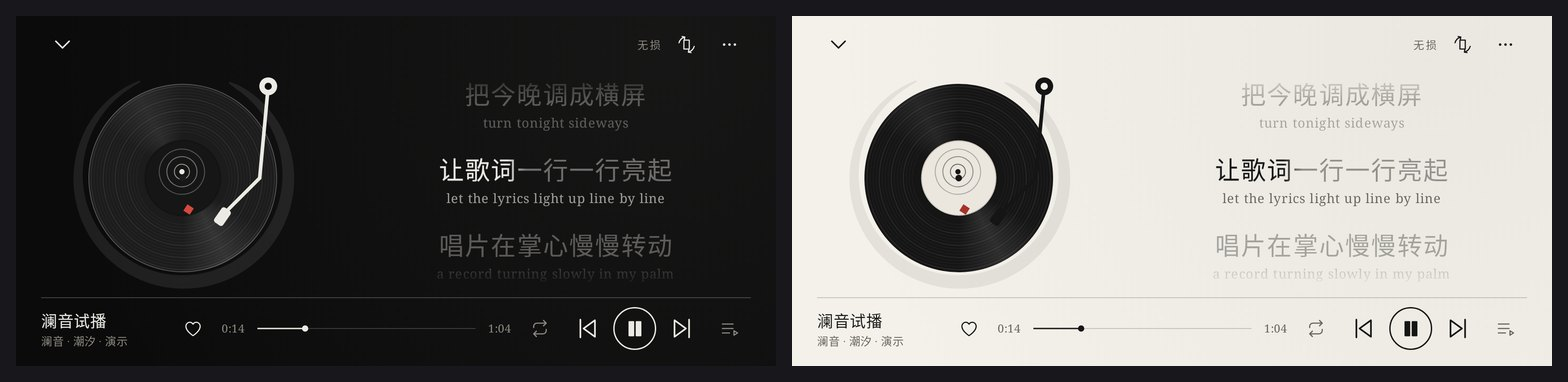
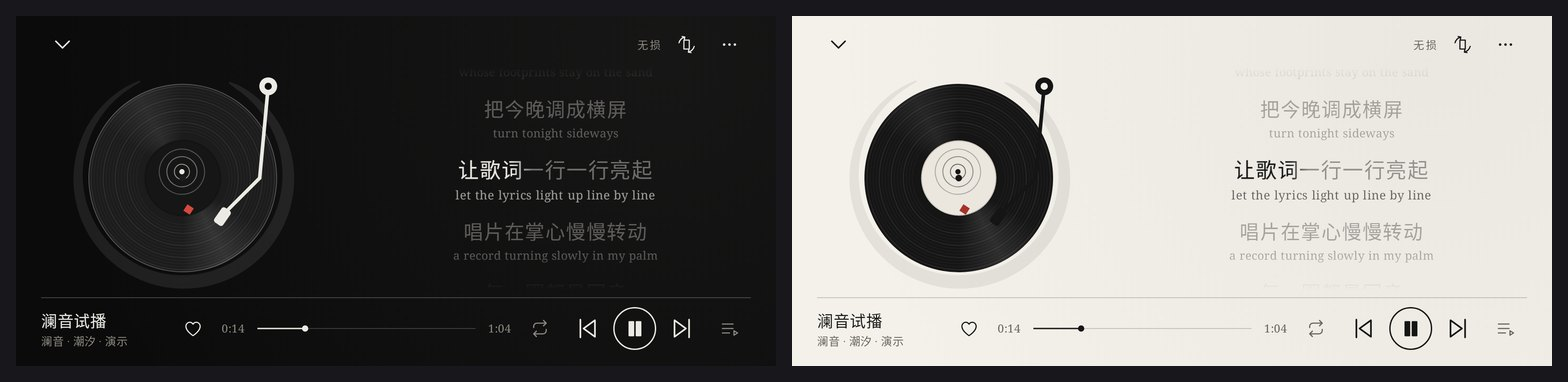
feat(music-player): smaller lyrics with a size setting
Lyrics were 26-28sp, about half again QQ Music's default, so only three
or four lines fit in landscape and every line weighed the same. The base
is now 22sp, the active line is set apart by a per-theme scale instead,
and spacing and translations scale with the text. Settings gains
歌词大小 (小 / 中 / 大) with a live preview.

Claude-Session: https://claude.ai/code/session_01B9QYm7eqM8MabVq3G7cMEc

diff --git a/music-player/app/src/main/java/io/lanyin/player/ui/theme/Style.kt b/music-player/app/src/main/java/io/lanyin/player/ui/theme/Style.kt
@@ -148,7 +148,7 @@ fun lanyinStyle(theme: AppTheme, dark: Boolean): LanyinStyle {
             cardShape = RoundedCornerShape(24.dp), chipShape = CircleShape, artShape = RoundedCornerShape(20.dp),
             edge = EdgeKind.Glass, backdrop = BackdropKind.Tide, seek = SeekKind.Wave,
             button = ButtonKind.Glow, nav = NavKind.Pill,
-            lyric = LyricStyle(centered = false, activeScale = 1.04f, inactiveAlpha = 0.42f, blurStep = 0.7.dp, staggerMs = 38, glow = false, serif = false),
+            lyric = LyricStyle(centered = false, activeScale = 1.1f, inactiveAlpha = 0.42f, blurStep = 0.7.dp, staggerMs = 38, glow = false, serif = false),
             motion = Motion(0.82f, 420f), bouncy = Motion(0.58f, 380f), pressScale = 0.94f,
             iconStroke = 1.8f,
         )
@@ -160,7 +160,7 @@ fun lanyinStyle(theme: AppTheme, dark: Boolean): LanyinStyle {
             cardShape = RectangleShape, chipShape = RectangleShape, artShape = RectangleShape,
             edge = EdgeKind.Hairline, backdrop = BackdropKind.Ink, seek = SeekKind.Hairline,
             button = ButtonKind.Outline, nav = NavKind.Text,
-            lyric = LyricStyle(centered = true, activeScale = 1f, inactiveAlpha = 0.34f, blurStep = 0.dp, staggerMs = 0, glow = false, serif = true),
+            lyric = LyricStyle(centered = true, activeScale = 1.06f, inactiveAlpha = 0.34f, blurStep = 0.dp, staggerMs = 0, glow = false, serif = true),
             motion = Motion(1f, 700f), bouncy = Motion(0.9f, 600f), pressScale = 0.98f,
             iconStroke = 1.3f, dock = DockKind.Docked, margin = 24.dp, quietSections = true,
         )
@@ -172,7 +172,7 @@ fun lanyinStyle(theme: AppTheme, dark: Boolean): LanyinStyle {
             cardShape = RoundedCornerShape(28.dp), chipShape = CircleShape, artShape = RoundedCornerShape(32.dp),
             edge = EdgeKind.Soft, backdrop = BackdropKind.Sakura, seek = SeekKind.Pill,
             button = ButtonKind.Blob, nav = NavKind.Pill,
-            lyric = LyricStyle(centered = true, activeScale = 1.08f, inactiveAlpha = 0.5f, blurStep = 0.5.dp, staggerMs = 55, glow = false, serif = false),
+            lyric = LyricStyle(centered = true, activeScale = 1.12f, inactiveAlpha = 0.5f, blurStep = 0.5.dp, staggerMs = 55, glow = false, serif = false),
             motion = Motion(0.7f, 450f), bouncy = Motion(0.42f, 420f), pressScale = 0.9f,
             iconStroke = 2f,
         )
@@ -184,7 +184,7 @@ fun lanyinStyle(theme: AppTheme, dark: Boolean): LanyinStyle {
             cardShape = CutCornerShape(14.dp), chipShape = CutCornerShape(10.dp), artShape = CutCornerShape(18.dp),
             edge = EdgeKind.Glow, backdrop = BackdropKind.Neon, seek = SeekKind.Segments,
             button = ButtonKind.NeonRing, nav = NavKind.Pill,
-            lyric = LyricStyle(centered = false, activeScale = 1f, inactiveAlpha = 0.35f, blurStep = 0.6.dp, staggerMs = 18, glow = true, serif = false),
+            lyric = LyricStyle(centered = false, activeScale = 1.08f, inactiveAlpha = 0.35f, blurStep = 0.6.dp, staggerMs = 18, glow = true, serif = false),
             motion = Motion(0.85f, 1100f), bouncy = Motion(0.55f, 900f), pressScale = 0.95f,
             iconStroke = 1.6f,
         )
@@ -196,7 +196,7 @@ fun lanyinStyle(theme: AppTheme, dark: Boolean): LanyinStyle {
             cardShape = RoundedCornerShape(18.dp), chipShape = CircleShape, artShape = RoundedCornerShape(14.dp),
             edge = EdgeKind.Retro, backdrop = BackdropKind.Dusk, seek = SeekKind.Tape,
             button = ButtonKind.Retro, nav = NavKind.Pill,
-            lyric = LyricStyle(centered = false, activeScale = 1.03f, inactiveAlpha = 0.5f, blurStep = 0.dp, staggerMs = 45, glow = false, serif = true),
+            lyric = LyricStyle(centered = false, activeScale = 1.08f, inactiveAlpha = 0.5f, blurStep = 0.dp, staggerMs = 45, glow = false, serif = true),
             motion = Motion(0.85f, 320f), bouncy = Motion(0.6f, 300f), pressScale = 1f,
             iconStroke = 2.2f,
         )

diff --git a/music-player/app/src/main/java/io/lanyin/player/ui/player/PlayerScreen.kt b/music-player/app/src/main/java/io/lanyin/player/ui/player/PlayerScreen.kt
@@ -93,6 +93,7 @@ fun PlayerScreen(
     keepScreenOnInLandscape: Boolean,
     onCollapse: () -> Unit,
     modifier: Modifier = Modifier,
+    lyricScale: Float = 1f,
 ) {
     val landscape = LocalConfiguration.current.orientation == Configuration.ORIENTATION_LANDSCAPE
     val style = Lanyin.style
@@ -176,9 +177,9 @@ fun PlayerScreen(
         ) {
             Backdrop(Modifier.matchParentSize(), live = true, playing = state.isPlaying)
             if (landscape) {
-                LandscapePlayer(state, skin, spin, chromeVisible, dismissDrag, onCollapse, onRotate)
+                LandscapePlayer(state, skin, spin, chromeVisible, dismissDrag, onCollapse, onRotate, lyricScale)
             } else {
-                PortraitPlayer(state, skin, spin, dismissDrag, onCollapse, onRotate)
+                PortraitPlayer(state, skin, spin, dismissDrag, onCollapse, onRotate, lyricScale)
             }
         }
     }
@@ -192,6 +193,7 @@ private fun PortraitPlayer(
     dismissDrag: Modifier,
     onCollapse: () -> Unit,
     onRotate: () -> Unit,
+    lyricScale: Float,
 ) {
     var showLyrics by rememberSaveable { mutableStateOf(false) }
     val lyricsOnly = skin == PlayerSkin.LYRICS || showLyrics
@@ -216,7 +218,7 @@ private fun PortraitPlayer(
             if (lyrics) {
                 LyricsView(
                     lines = state.lyrics, currentIndex = state.currentLyricIndex, progress = state::lineProgress,
-                    onSeek = state::seekTo, textStyle = MaterialTheme.typography.headlineSmall.copy(fontSize = 26.sp, lineHeight = 34.sp),
+                    onSeek = state::seekTo, textStyle = lyricTextStyle(22, lyricScale),
                     modifier = Modifier.fillMaxSize(), anchorFraction = 0.4f,
                 )
             } else {
@@ -253,9 +255,10 @@ private fun LandscapePlayer(
     dismissDrag: Modifier,
     onCollapse: () -> Unit,
     onRotate: () -> Unit,
+    lyricScale: Float,
 ) {
     val style = Lanyin.style
-    val lyricStyle = MaterialTheme.typography.headlineSmall.copy(fontSize = 28.sp, lineHeight = 36.sp)
+    val lyricStyle = lyricTextStyle(22, lyricScale)
     Column(
         Modifier
             .fillMaxSize()
@@ -269,7 +272,7 @@ private fun LandscapePlayer(
             if (skin == PlayerSkin.LYRICS) {
                 LyricsView(
                     state.lyrics, state.currentLyricIndex, state::lineProgress, state::seekTo,
-                    textStyle = lyricStyle.copy(fontSize = 32.sp, lineHeight = 42.sp),
+                    textStyle = lyricTextStyle(26, lyricScale),
                     modifier = Modifier.fillMaxSize(), centered = true, anchorFraction = 0.46f,
                 )
             } else {
@@ -328,6 +331,13 @@ private fun LandscapeControlBar(state: DemoPlayerState, modifier: Modifier = Mod
         }
     }
 }
+
+/** Lyric face at [baseSp] (scaled by the user's 歌词大小), line height 1.36×. */
+@Composable
+private fun lyricTextStyle(baseSp: Int, scale: Float) = MaterialTheme.typography.headlineSmall.copy(
+    fontSize = (baseSp * scale).sp,
+    lineHeight = (baseSp * scale * 1.36f).sp,
+)
 
 @Composable
 private fun PlayerTopBar(

diff --git a/music-player/app/src/main/java/io/lanyin/player/ui/settings/SettingsScreen.kt b/music-player/app/src/main/java/io/lanyin/player/ui/settings/SettingsScreen.kt
@@ -53,6 +53,7 @@ import io.lanyin.player.ui.theme.AppTheme
 import io.lanyin.player.ui.theme.EdgeKind
 import io.lanyin.player.ui.theme.Lanyin
 import io.lanyin.player.ui.theme.LanyinTheme
+import io.lanyin.player.ui.theme.LyricSize
 import io.lanyin.player.ui.theme.PlayerSkin
 import io.lanyin.player.ui.theme.ThemeMode
 import kotlinx.coroutines.launch
@@ -109,7 +110,30 @@ fun SettingsScreen(settings: UiSettings, repository: SettingsRepository, onBack:
 
             item { SectionTitle("播放", Modifier.padding(start = m, end = m, top = 36.dp)) }
             item {
+                Column(Modifier.padding(start = m, end = m, top = 14.dp)) {
+                    Row(verticalAlignment = Alignment.CenterVertically) {
+                        Text("歌词大小", style = style.type.body, modifier = Modifier.weight(1f))
+                        ChoiceRow(LyricSize.entries.map { it.label }, settings.lyricSize.label, { label ->
+                            val size = LyricSize.entries.first { it.label == label }
+                            scope.launch { repository.setLyricSize(size) }
+                        })
+                    }
+                    // What the player will show at this size.
+                    val preview = androidx.compose.material3.MaterialTheme.typography.headlineSmall.copy(
+                        fontSize = (22 * settings.lyricSize.scale).sp,
+                        lineHeight = (22 * settings.lyricSize.scale * 1.36f).sp,
+                        fontFamily = if (style.lyric.serif) style.display else null,
+                        fontWeight = if (style.lyric.serif) FontWeight.Medium else FontWeight.Bold,
+                    )
+                    Column(Modifier.fillMaxWidth().padding(vertical = 16.dp)) {
+                        Text("让歌词一行一行亮起", style = preview, color = if (style.edge == EdgeKind.Hairline) c.content else c.accent)
+                        Text("唱片在掌心慢慢转动", style = preview, color = c.content.copy(alpha = style.lyric.inactiveAlpha))
+                    }
+                }
+            }
+            item {
                 Column(Modifier.padding(start = m, end = m, top = 6.dp).then(if (style.edge == EdgeKind.Hairline) Modifier else Modifier.padding(top = 8.dp).themedSurface(tone = SurfaceTone.Flat).padding(horizontal = 16.dp))) {
+                    if (style.edge == EdgeKind.Hairline) Hairline()
                     ToggleRow("打开播放页时自动横屏", "也可以随时点播放页右上角的旋转按钮", settings.autoLandscape) {
                         scope.launch { repository.setAutoLandscape(it) }
                     }

diff --git a/music-player/app/src/main/java/io/lanyin/player/data/settings/SettingsRepository.kt b/music-player/app/src/main/java/io/lanyin/player/data/settings/SettingsRepository.kt
@@ -9,6 +9,7 @@ import androidx.datastore.preferences.core.emptyPreferences
 import androidx.datastore.preferences.core.stringPreferencesKey
 import androidx.datastore.preferences.preferencesDataStore
 import io.lanyin.player.ui.theme.AppTheme
+import io.lanyin.player.ui.theme.LyricSize
 import io.lanyin.player.ui.theme.PlayerSkin
 import io.lanyin.player.ui.theme.ThemeMode
 import java.io.IOException
@@ -25,6 +26,7 @@ data class UiSettings(
     /** Rotate to landscape whenever the player opens. */
     val autoLandscape: Boolean = false,
     val keepScreenOnInLandscape: Boolean = true,
+    val lyricSize: LyricSize = LyricSize.Default,
 )
 
 class SettingsRepository(private val dataStore: DataStore<Preferences>) {
@@ -39,6 +41,7 @@ class SettingsRepository(private val dataStore: DataStore<Preferences>) {
                 themeMode = ThemeMode.fromId(prefs[THEME_MODE]),
                 autoLandscape = prefs[AUTO_LANDSCAPE] ?: false,
                 keepScreenOnInLandscape = prefs[KEEP_SCREEN_ON] ?: true,
+                lyricSize = LyricSize.fromId(prefs[LYRIC_SIZE]),
             )
         }
 
@@ -52,11 +55,14 @@ class SettingsRepository(private val dataStore: DataStore<Preferences>) {
 
     suspend fun setKeepScreenOnInLandscape(enabled: Boolean) = dataStore.edit { it[KEEP_SCREEN_ON] = enabled }
 
+    suspend fun setLyricSize(size: LyricSize) = dataStore.edit { it[LYRIC_SIZE] = size.id }
+
     private companion object {
         val THEME = stringPreferencesKey("app_skin")
         val PLAYER_SKIN = stringPreferencesKey("player_skin")
         val THEME_MODE = stringPreferencesKey("theme_mode")
         val AUTO_LANDSCAPE = booleanPreferencesKey("auto_landscape")
         val KEEP_SCREEN_ON = booleanPreferencesKey("keep_screen_on_landscape")
+        val LYRIC_SIZE = stringPreferencesKey("lyric_size")
     }
 }

diff --git a/music-player/app/src/test/java/io/lanyin/player/screenshots/ScreenshotTest.kt b/music-player/app/src/test/java/io/lanyin/player/screenshots/ScreenshotTest.kt
@@ -92,6 +92,13 @@ class ScreenshotTest {
             io.lanyin.player.ui.settings.SettingsScreen(UiSettings(theme = AppTheme.INK, themeMode = ThemeMode.LIGHT), repo, onBack = {})
         }
     }
+    @Config(qualifiers = "w392dp-h1500dp-port-xhdpi")
+    @Test fun ink_settings_full() {
+        val repo = repo()
+        capture("ink_settings_full", AppTheme.INK, ThemeMode.LIGHT) {
+            io.lanyin.player.ui.settings.SettingsScreen(UiSettings(theme = AppTheme.INK, themeMode = ThemeMode.LIGHT), repo, onBack = {})
+        }
+    }
     @Test fun ink_port_vinyl_light() = capture("ink_port_vinyl_light", AppTheme.INK, ThemeMode.LIGHT) { Player(PlayerSkin.VINYL) }
     @Test fun ink_port_cover_dark() = capture("ink_port_cover_dark", AppTheme.INK, ThemeMode.DARK) { Player(PlayerSkin.COVER) }
 
@@ -132,6 +139,11 @@ class ScreenshotTest {
     @Test fun ink_land_vinyl_idle() {
         // After five idle seconds the chrome folds away and the stage takes the room.
         capture("ink_land_vinyl_idle", AppTheme.INK, ThemeMode.LIGHT, settle = 6_500) { Player(PlayerSkin.VINYL) }
+    }
+
+    @Config(qualifiers = LANDSCAPE)
+    @Test fun ink_land_vinyl_large_lyrics() = capture("ink_land_vinyl_large_lyrics", AppTheme.INK, ThemeMode.LIGHT) {
+        PlayerScreen(playingAt(14_000), PlayerSkin.VINYL, rememberSpinState(true), keepScreenOnInLandscape = true, onCollapse = {}, lyricScale = io.lanyin.player.ui.theme.LyricSize.LARGE.scale)
     }
 
     // Home, inside the real shell, for every theme.

diff --git a/music-player/app/src/main/java/io/lanyin/player/ui/player/Lyrics.kt b/music-player/app/src/main/java/io/lanyin/player/ui/player/Lyrics.kt
@@ -139,7 +139,7 @@ fun LyricsView(
             ),
     ) {
         val anchorPx = constraints.maxHeight * anchorFraction
-        val gapPx = with(androidx.compose.ui.platform.LocalDensity.current) { 18.dp.roundToPx() }
+        val gapPx = with(androidx.compose.ui.platform.LocalDensity.current) { (textStyle.fontSize.toPx() * 0.6f).toInt() }
         Layout(
             content = {
                 lines.forEachIndexed { i, line ->
@@ -232,7 +232,7 @@ private fun LyricRow(
         if (line.translation != null) {
             Text(
                 line.translation,
-                style = textStyle.copy(fontSize = textStyle.fontSize * 0.52f, fontWeight = FontWeight.Normal, textAlign = align),
+                style = textStyle.copy(fontSize = textStyle.fontSize * 0.58f, lineHeight = textStyle.fontSize * 0.8f, fontWeight = FontWeight.Normal, textAlign = align),
                 color = c.content.copy(alpha = (ls.inactiveAlpha + 0.3f * activeAmount).coerceAtMost(0.75f)),
                 modifier = Modifier.padding(top = 4.dp),
             )

diff --git a/music-player/app/src/main/java/io/lanyin/player/ui/theme/Skins.kt b/music-player/app/src/main/java/io/lanyin/player/ui/theme/Skins.kt
@@ -36,6 +36,18 @@ enum class PlayerSkin(val id: String, val label: String, val description: String
     }
 }
 
+/** Lyric text size on the now-playing page, as a multiple of the 22sp base. */
+enum class LyricSize(val id: String, val label: String, val scale: Float) {
+    SMALL("small", "小", 0.86f),
+    MEDIUM("medium", "中", 1f),
+    LARGE("large", "大", 1.22f);
+
+    companion object {
+        val Default = MEDIUM
+        fun fromId(id: String?): LyricSize = entries.firstOrNull { it.id == id } ?: Default
+    }
+}
+
 enum class ThemeMode(val id: String, val label: String) {
     SYSTEM("system", "跟随系统"),
     LIGHT("light", "浅色"),

diff --git a/music-player/app/src/test/java/io/lanyin/player/ui/theme/SkinsTest.kt b/music-player/app/src/test/java/io/lanyin/player/ui/theme/SkinsTest.kt
@@ -11,6 +11,8 @@ class SkinsTest {
         AppTheme.entries.forEach { assertEquals(it, AppTheme.fromId(it.id)) }
         PlayerSkin.entries.forEach { assertEquals(it, PlayerSkin.fromId(it.id)) }
         ThemeMode.entries.forEach { assertEquals(it, ThemeMode.fromId(it.id)) }
+        LyricSize.entries.forEach { assertEquals(it, LyricSize.fromId(it.id)) }
+        assertEquals(LyricSize.MEDIUM, LyricSize.fromId(null))
     }
 
     @Test

diff --git a/music-player/app/src/main/java/io/lanyin/player/ui/LanyinApp.kt b/music-player/app/src/main/java/io/lanyin/player/ui/LanyinApp.kt
@@ -178,6 +178,7 @@ fun LanyinApp(
                             spin = spin,
                             keepScreenOnInLandscape = settings.keepScreenOnInLandscape,
                             onCollapse = { expanded = false },
+                            lyricScale = settings.lyricSize.scale,
                         )
                     } else if (onTopLevel) {
                         val onSelectTab: (Int) -> Unit = { i ->

diff --git a/music-player/README.md b/music-player/README.md
@@ -35,7 +35,7 @@
 ### 动效
 - 点迷你播放条，它会展开成播放页（容器变形），唱片从缩略图长成大唱片；下拉或系统返回手势会让播放页跟手缩小。
 - 唱片有惯性：播放时加速转起，暂停时慢慢停下；唱臂带回弹落下。
-- 歌词逐行像波浪一样跟上，当前行卡拉 OK 式扫色；可以拖动歌词浏览，松手后自动回到当前行，点某一行跳到那里。
+- 歌词逐行像波浪一样跟上，当前行略微放大并卡拉 OK 式扫色；字号可以在设置里选小 / 中 / 大（默认 22sp）；可以拖动歌词浏览，松手后自动回到当前行，点某一行跳到那里。
 - 横屏是「舞台加一条控制栏」：封面和歌词在上，当前歌词和封面中心对齐；歌名、红心、进度、播放控制合成底部一条栏，样式和迷你播放条一致。横屏时隐藏系统栏，5 秒不碰就收起控件，舞台放大，只留一道进度细线；右上角按钮可以直接旋转屏幕，也可以在设置里打开「进入播放页时自动横屏」。
 
 ## 编译
